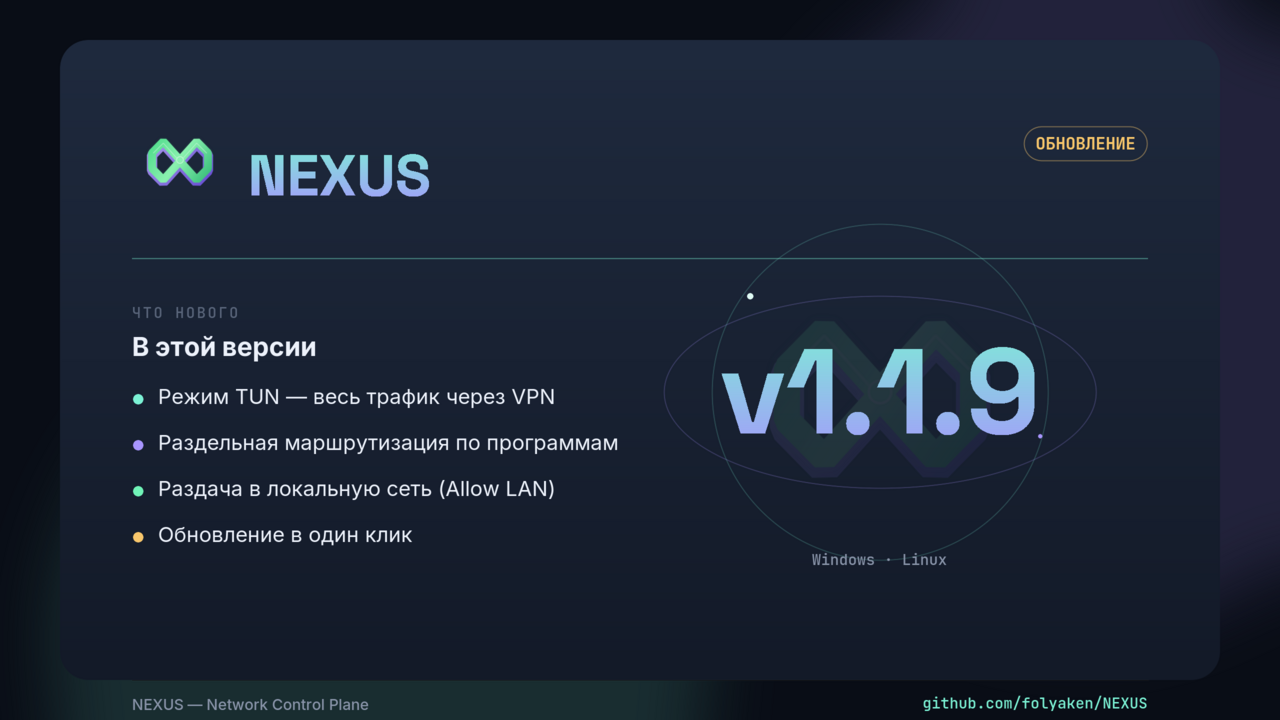
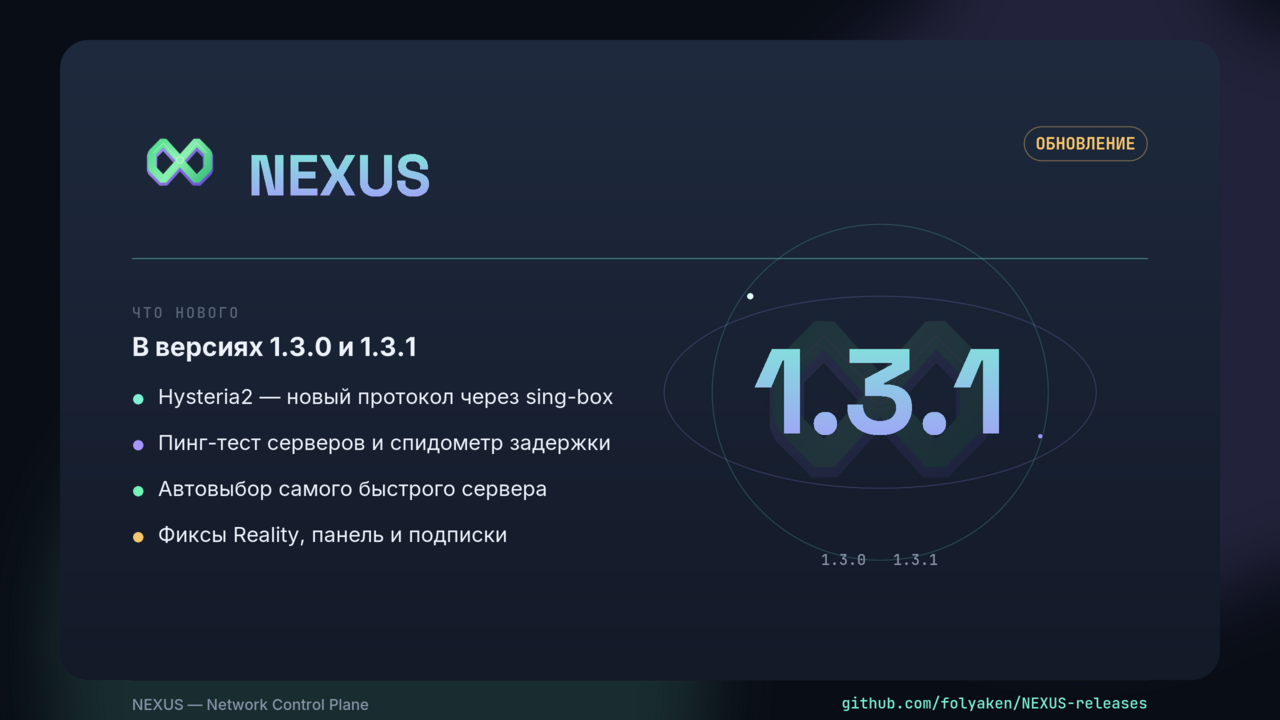
Update card and post for 1.3.0/1.3.1 release

diff --git a/tools/render_update.js b/tools/render_update.js
@@ -14,12 +14,12 @@ fs.mkdirSync(TMP, { recursive: true });
 fs.mkdirSync(path.dirname(OUT), { recursive: true });
 
 /* ================= EDIT THESE PER RELEASE ================= */
-const VERSION = 'v1.1.9';
+const VERSION = '1.3.1';
 const CHANGES = [
-  { c: '#7cf2d5', t: 'Режим TUN — весь трафик через VPN' },
-  { c: '#a895ff', t: 'Раздельная маршрутизация по программам' },
-  { c: '#71f4b8', t: 'Раздача в локальную сеть (Allow LAN)' },
-  { c: '#f8c76c', t: 'Обновление в один клик' },
+  { c: '#7cf2d5', t: 'Hysteria2 — новый протокол через sing-box' },
+  { c: '#a895ff', t: 'Пинг-тест серверов и спидометр задержки' },
+  { c: '#71f4b8', t: 'Автовыбор самого быстрого сервера' },
+  { c: '#f8c76c', t: 'Фиксы Reality, панель и подписки' },
 ];
 /* ============================================================ */
 
@@ -137,7 +137,7 @@ over(canvas, tmp('_urule'), LX, 258, canvas);
 /* ---- left column: "что нового" ---- */
 A = [canvas];
 txt(LX, 318, 15, F.monoM, C.muted2, 'ЧТО НОВОГО', 1.8);
-txt(LX, 356, 26, F.interB, C.text, 'В этой версии');
+txt(LX, 356, 26, F.interB, C.text, 'В версиях 1.3.0 и 1.3.1');
 CHANGES.forEach((f, i) => {
   const y = 404 + i * 46;
   fill(f.c); stroke('none'); circle(LX + 6, y - 5, 5);
@@ -163,7 +163,7 @@ const [vw, vh] = gradText(tmp('_uver'), VERSION, F.sgB, 120, '#7cf2d5', '#a895ff
 over(canvas, tmp('_uver'), OCX - vw / 4, OCY - vh / 4, canvas);
 
 // caption under version (centered)
-centerText(OCX, 560, 15, F.monoM, C.muted, 'Windows · Linux');
+centerText(OCX, 560, 15, F.monoM, C.muted, '1.3.0 → 1.3.1');
 
 /* ---- CTA pill (right bottom) — only when a real button can't be attached ---- */
 if (!NO_BUTTON) {
@@ -185,7 +185,7 @@ txt(132, 710, 15, F.interM, C.muted, 'NEXUS — Network Control Plane');
 run(A, canvas);
 const gh = tmp('_ugh');
 run(['-background', 'none', '-font', F.monoM, '-pointsize', String(S(15)), '-fill', C.cyan,
-  '-gravity', 'center', 'label:github.com/folyaken/NEXUS', gh]);
+  '-gravity', 'center', 'label:github.com/folyaken/NEXUS-releases', gh]);
 const [ghw, ghh] = sizeOf(gh);
 run([canvas, '(', gh, ')', '-geometry', `+${2296 - ghw}+${Math.round(2 * 703 - ghh / 2)}`, '-composite', canvas]);
 

diff --git a/promo/update-post.md b/promo/update-post.md
@@ -1,17 +1,20 @@
-# Пост с обновлением (прикрепите картинку nexus-update.png)
+# Пост об обновлении (вручную)
+
+Прикрепите картинку `nexus-update-nobtn.png` к посту ниже.
 
 ---
 
-🔄 **NEXUS 1.1.9 — обновление доступно!**
+🔄 **NEXUS 1.3.0 → 1.3.1 — обновление доступно!**
 
 Что нового:
-• Режим TUN — весь трафик через VPN
-• Раздельная маршрутизация по программам
-• Раздача в локальную сеть (Allow LAN)
-• Обновление в один клик
+• ⚡ Hysteria2 через sing-box — новый протокол VPN
+• 📶 Пинг-тест серверов + анимированный спидометр задержки
+• 🚀 Автовыбор самого быстрого сервера («Самый быстрый» — в топе списка)
+• 🧭 Доработан Jey2Ray: кнопка-«радар», умная кнопка питания, панель подписки
+• 🛠 Фиксы: Reality (TCP), панель инструментов, импорт ссылок
 
-Обновиться можно прямо из приложения (вкладка «О программе» → «Проверить обновления») или скачать установщик заново.
+Как обновиться:
+• В приложении: «О программе» → «Проверить обновления» (в один клик)
+• Или скачать установщик: https://github.com/folyaken/NEXUS-releases/releases
 
-Скачать: https://github.com/folyaken/NEXUS
-
-#NEXUS #Update #VPN
+#NEXUS #Update
